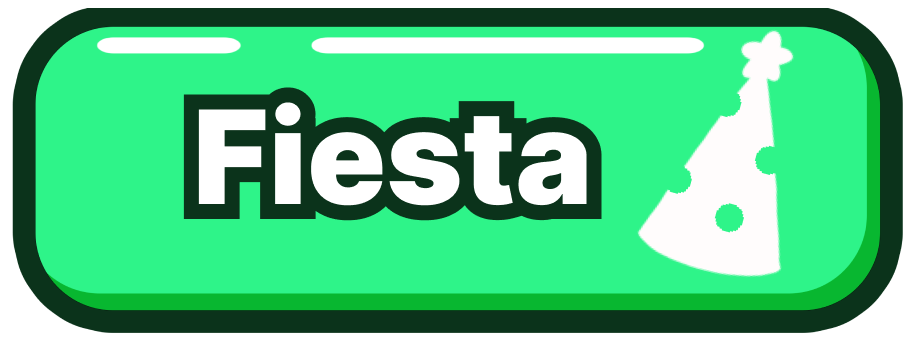
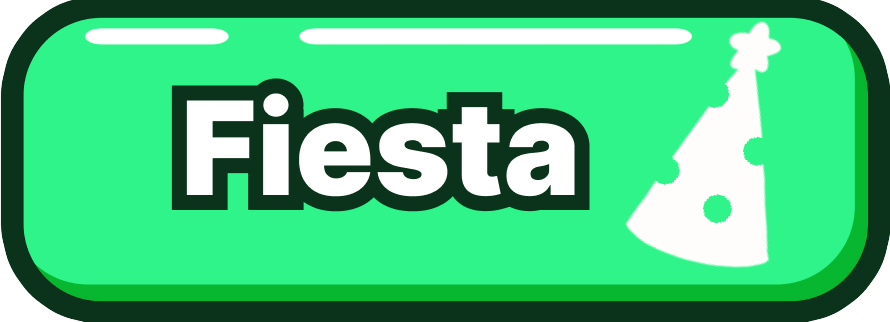
Moviendo el boton fiesta en robot

diff --git a/Maquetacion/css/robot.css b/Maquetacion/css/robot.css
@@ -92,10 +92,17 @@ div.rotating div.right img{
 
 div.party {
     position: absolute;
-    bottom: 0;
+    bottom: 50px;
 }
 
 div.party div.botomParty img{
     width: 300px;
     height: auto;
+}
+
+@media screen and (max-width: 768px) {
+    div.party div.botomParty img{
+        width: 300px;
+        height: auto;
+    }
 }
